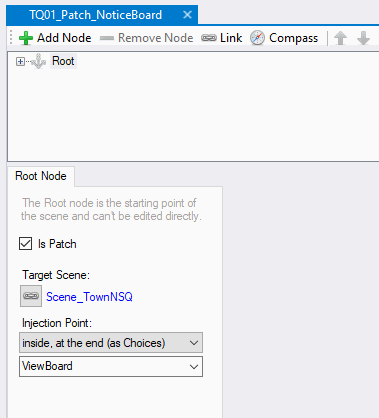
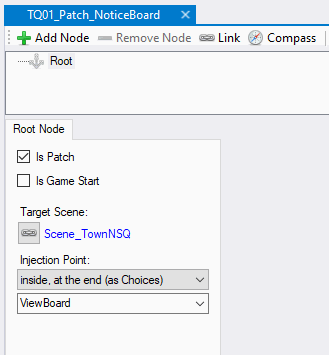
Update editor documentation with scene editor changes

Changed region(s): [[0.0, 0.0, 1.0, 1.0]]

diff --git a/Docs/content/asset-types/scenes.md b/Docs/content/asset-types/scenes.md
@@ -44,7 +44,34 @@ All nodes have a unique key. This key is used by the game internally to refer to
 
 You are free to name them whatever you want, but I recommend keeping them at least somewhat organized. For example, you might want to group nodes related to the same topic together using a common prefix.
 
-## Node Scripts
+## Special Types of Scenes
+
+When selecting the Root node of the scene node tree, two options appear that specialize the role of the scene. Only up to one of these can be selected at a time.
+
+### 🛠 Patches
+
+Patches can be used to inject new scene nodes into a scene asset from a different module. For instance, you can use this to patch in new areas or dialogue trees into the Core module, adding them on to the main game. Or you can patch scenes from other people's mods.
+
+To use this feature, tick the 'Is Patch' check box on the Root node. Select the scene you wish to add nodes on to, and then choose the injection point, which tells Finmer how exactly to inject your custom nodes. The target node, where your new nodes will be added, is identified with its Unique Key. It may be beneficial to open the module you're patching in the Editor, so you can see more clearly what a good target node would be for your edit.
+
+Injection Mode                      | Effect
+---                                 | ---
+Before (as States)                  | The patch will add new States _before_ the target injection point, forcing the game to select them (per their Appears When script) before the target.
+After (as States)                   | The patch will add new States _after_ the target injection point. They can only be selected if the Appears When script of the target evaluates to false.
+Inside, at the start (as Choices)   | The patch will add new Choices before all existing ones.
+Inside, at the end (as Choices)     | The patch will add new Choices at the end of the existing ones.
+
+It is currently not possible to _replace_ Actions Taken or Appears When scripts on existing scene nodes. However, you could add new nodes with scripts that replace the old ones, and inject your custom nodes such that they appear before the base module has a chance to show the originals.
+
+### 🏁 Game Start Locations
+
+Game Starts represent locations where the player can start a new story. You can use this to allow players to start a new game entirely within your custom mod (such as a total conversion mod) without ever having to go through the main story from the Core module.
+
+If there are multiple Game Starts in loaded modules, the game will allow the player to choose which one they want to play. Set the 'Game Start Description' to a brief description of the story or the start location; this is shown to the player in the dialog where they choose which story they wish to start.
+
+## Scripting with Scenes
+
+### Node Scripts
 
 Each node may optionally contain either or both of two special scripts. In short:
 
@@ -69,7 +96,7 @@ After a Choice is selected, the game will go over all child States, in order fro
 
 For Choices, it's a bit simpler: every child Choice whose Appears When function evaluates to `true` (or doesn't have one at all) will appear at the bottom of the screen.
 
-## Scene-Wide Scripts
+### Scene-Wide Scripts
 
 A Scene may optionally have these scripts:
 

diff --git a/Docs/content/tutorial/part1.md b/Docs/content/tutorial/part1.md
@@ -52,7 +52,7 @@ Dependencies let you easily import content from other modules. You don't _need_ 
 
 Now we're ready to start building. Create a new scene by clicking `Add Asset` on the Toolbar, then click Scene.
 
-The new scene will have a name like "NewScene1" in the asset list on the left. Click the scene in the list, and press the `Rename` button on the Toolbar (it's under the 'Assets' group). You can also press `F2` on your keyboard as a shortcut for Rename.
+The new scene will have a name like "NewScene1" in the asset list on the left. Click the scene in the list, and press the `Rename` button on the Toolbar (it's under the 'Assets' group). You can also click twice on the asset to rename it.
 
 You are free to name it whatever you like. For this tutorial, we'll follow the practice of grouping things together. In Core, things related to quests are usually prefixed with the quest number, to clearly group them. Since this is our first tutorial quest, we will use the prefix `TQ01` - short for **'Tutorial Quest 1'**. This scene will be used to patch a new notice into the town's notice board, so let's call the scene `TQ01_Patch_NoticeBoard`.
 
